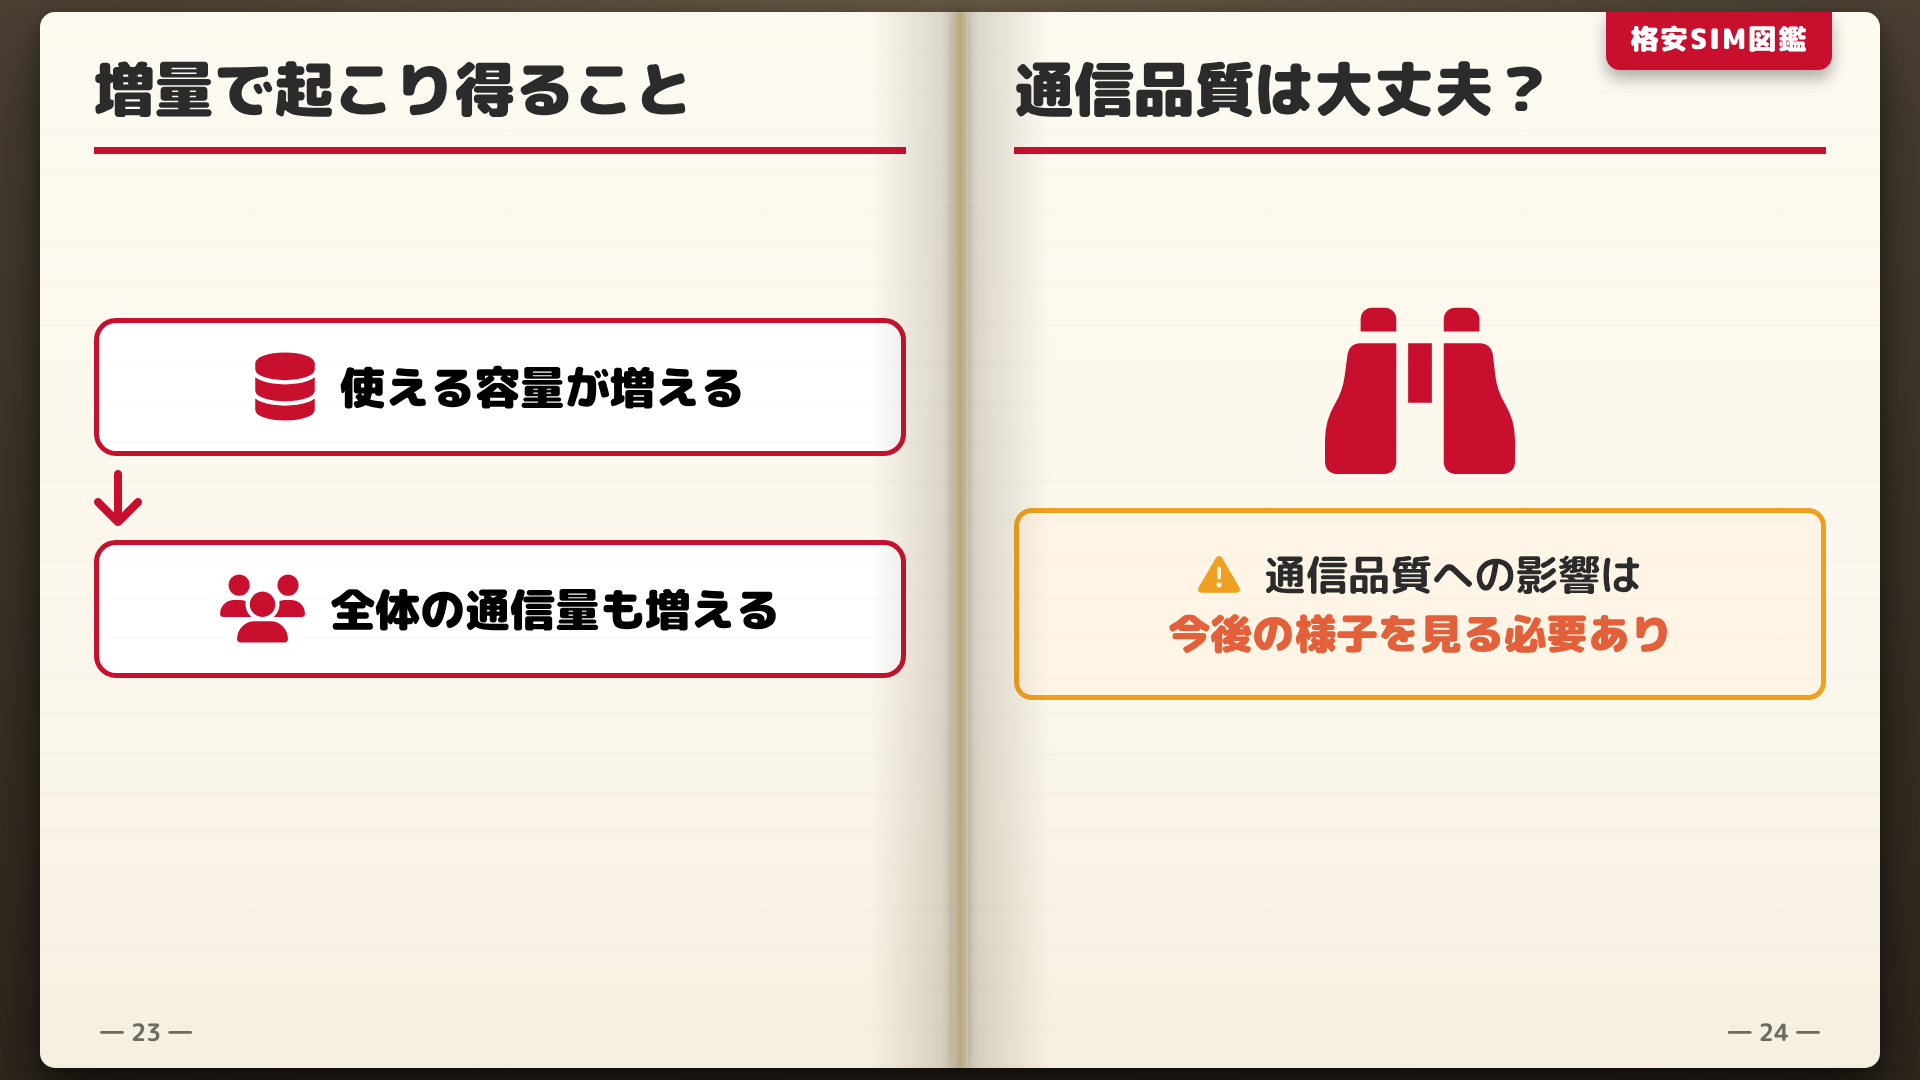
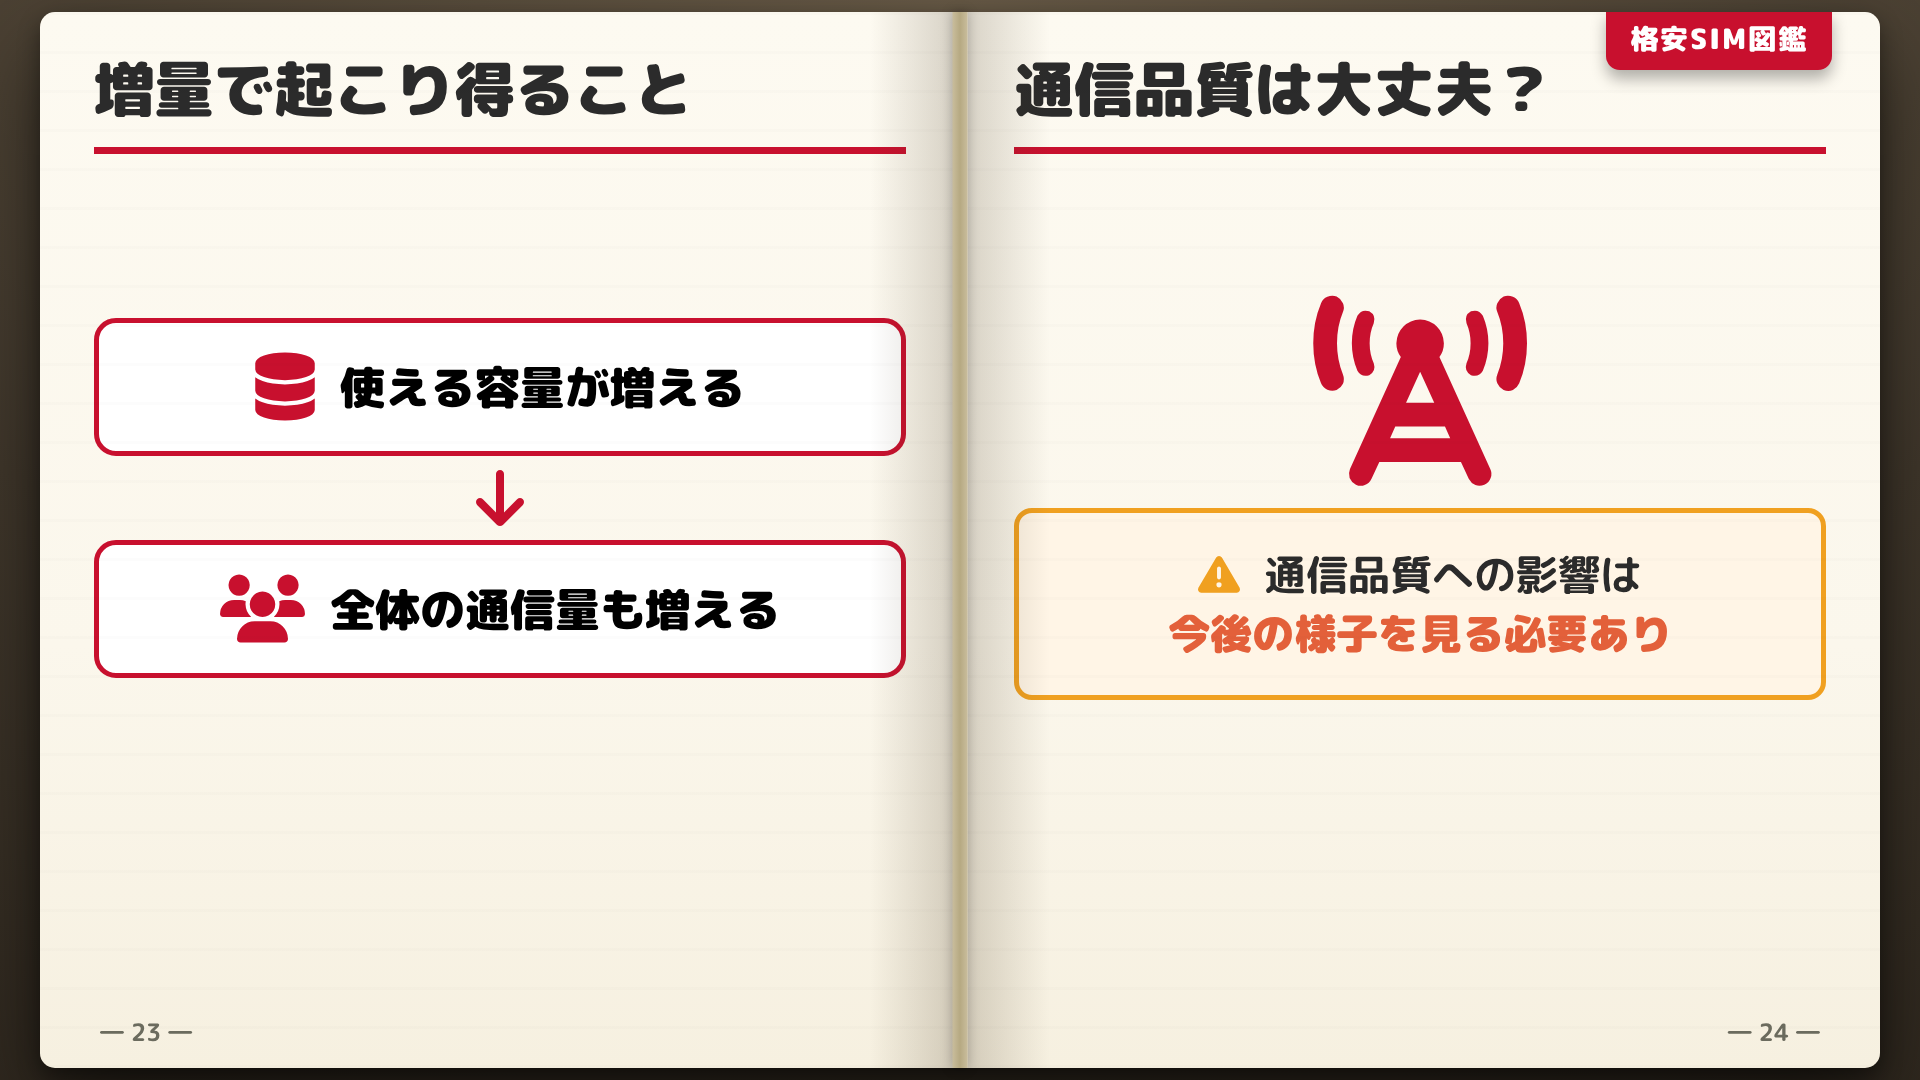
スライド改修

Changed region(s): [[0.6562, 0.275, 0.8125, 0.4583], [0.0312, 0.4583, 0.0938, 0.4889], [0.25, 0.4583, 0.2812, 0.4889]]

diff --git a/slides.html b/slides.html
@@ -53,7 +53,7 @@
     .score-stack{width:100%;display:flex;flex-direction:column;gap:18px}.score-card{display:flex;align-items:center;gap:28px;background:#fff;border:4px solid #e7dcc2;border-left:14px solid var(--brand);border-radius:18px;padding:16px 26px}.score-card .rank{width:90px;height:90px;border-radius:18px;font-size:46px;flex:none}.score-name{font-size:48px;font-weight:900}.balance-icon{font-size:155px}.eval-note{font-size:28px;text-align:center}.compare-cap{width:100%;padding:26px}.price-gap{font-size:42px;width:100%;text-align:center}
     .quality-stack{width:100%;display:grid;grid-template-columns:1fr 1fr;gap:20px}.quality-card{background:#fff;border:4px solid #e7dcc2;border-radius:20px;padding:22px;display:flex;align-items:center;gap:20px}.quality-card .rank{width:90px;height:90px;border-radius:18px;font-size:42px;flex:none}.quality-card b{font-size:38px}.position-text{font-size:42px;width:100%}.position-text .big{font-size:78px}
     .cta-visual img{width:100%;max-height:620px}.cta-play{font-size:175px}.cta-title{font-size:72px}.cta-lead{font-size:44px;text-align:center;padding:24px}
-    .flow-body{gap:10px}.flow-step{width:100%;background:#fff;border:5px solid var(--brand);border-radius:22px;padding:30px;display:flex;align-items:center;justify-content:center;gap:25px}.flow-step i{font-size:68px;color:var(--brand)}.flow-step b{font-size:45px}.flow-arrow{font-size:64px;color:var(--brand)}.lookout-icon{font-size:190px}.outlook-warn{font-size:42px;text-align:center}.outlook-warn strong{color:var(--con)}
+    .flow-body{gap:10px}.flow-step{width:100%;background:#fff;border:5px solid var(--brand);border-radius:22px;padding:30px;display:flex;align-items:center;justify-content:center;gap:25px}.flow-step i{font-size:68px;color:var(--brand)}.flow-step b{font-size:45px}.flow-arrow{font-size:64px;color:var(--brand);align-self:center}.tower-icon{font-size:190px}.outlook-warn{font-size:42px;text-align:center}.outlook-warn strong{color:var(--con)}
     .opinion{width:100%;font-size:43px;text-align:center}.ten-gb{font-size:40px;padding:27px}.ten-gb .big{font-size:76px}.decision-body{gap:30px;justify-content:center}.decision-row{display:grid;grid-template-columns:230px 1fr;align-items:center;border:4px solid #e7dcc2;border-left:14px solid var(--brand);border-radius:17px;background:#fff;padding:30px 24px}.decision-row b{font-size:36px;color:var(--brand-deep)}.decision-row span{font-size:38px;font-weight:900}
     .link-icon,.comment-icon,.info-icon,.pen-icon,.bell-icon{font-size:210px}.official-lead{width:100%;font-size:48px;text-align:center;padding:24px}.posting-note{font-size:46px;text-align:center}.posting-note strong{font-size:58px;color:var(--con)}
     .blog-title{font-size:82px}.blog-body{gap:14px}.blog-image{width:100%;height:auto;max-height:390px;object-fit:contain;border-radius:18px;filter:drop-shadow(0 12px 20px #0003)}.blog-note,.final-note{font-size:30px;text-align:center}.final-title{font-size:66px}.emoji-cta{display:flex;gap:70px;justify-content:center}.emoji-cta span{font-size:130px}.thanks{font-size:56px;text-align:center;color:var(--brand-deep)}
@@ -171,7 +171,7 @@
       <i class="fa-solid fa-arrow-down flow-arrow"></i>
       <div class="flow-step"><i class="fa-solid fa-users"></i><b>全体の通信量も増える</b></div>
     </div><span class="page-no">― 23 ―</span></div><div class="page right"><span class="index-tab">格安SIM図鑑</span><div class="page-head">通信品質は大丈夫？</div><div class="page-body center">
-      <div class="bigicon lookout-icon"><i class="fa-solid fa-binoculars"></i></div>
+      <div class="bigicon tower-icon"><i class="fa-solid fa-tower-cell"></i></div>
       <div class="warn outlook-warn"><span class="ic"><i class="fa-solid fa-triangle-exclamation"></i></span>
       通信品質への影響は<br><strong>今後の様子を見る必要あり</strong></div>
     </div><span class="page-no">― 24 ―</span></div></div></div>
